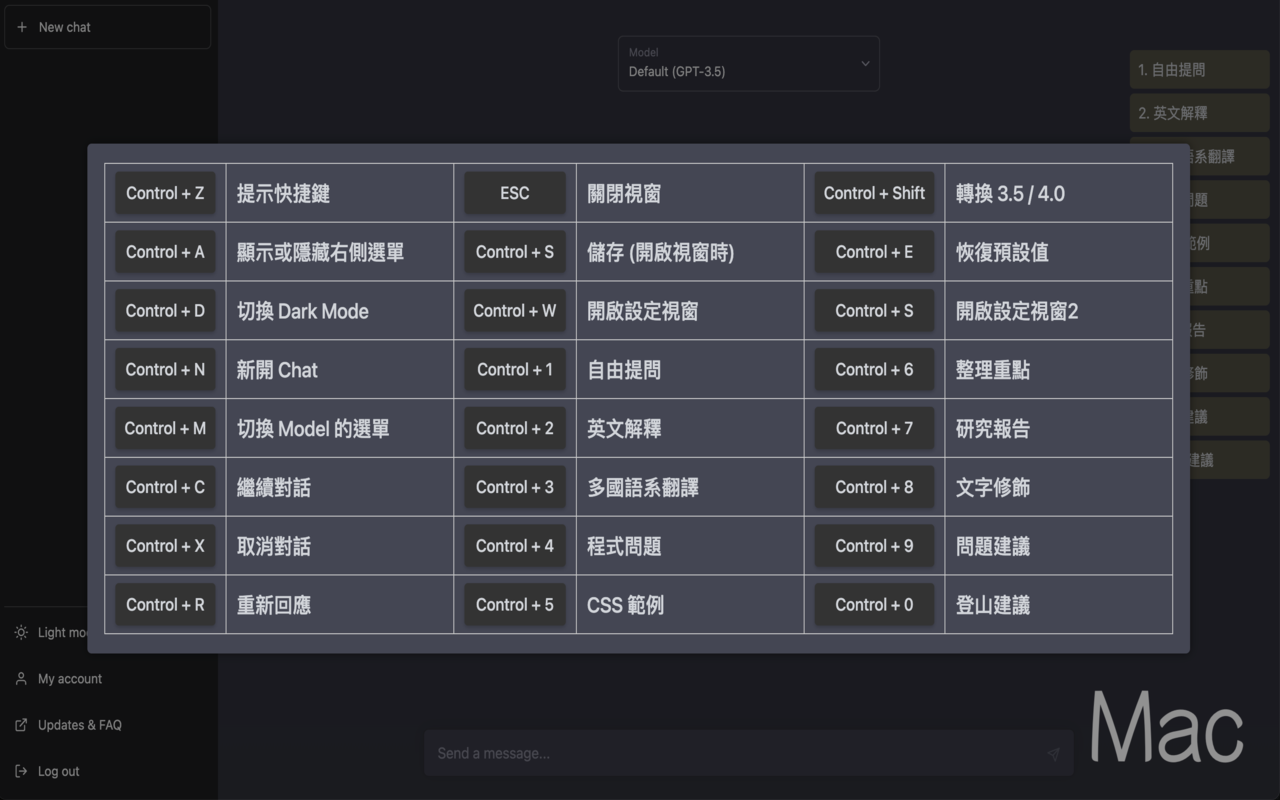
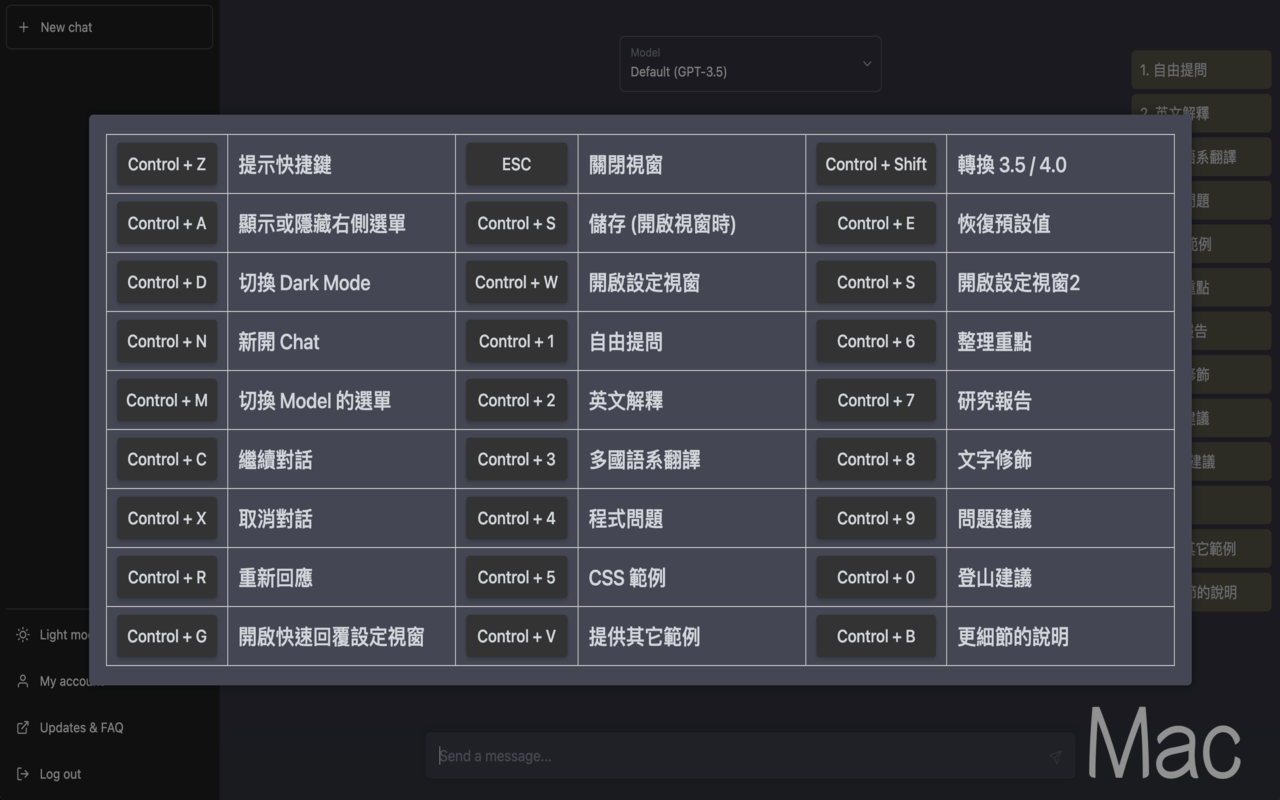
調整 readme && 調整 chrome store 圖片

diff --git a/README.md b/README.md
@@ -11,76 +11,89 @@
 ## 精彩功能一覽
 
 ### Mac 快捷鍵
-![](https://i.imgur.com/GNV3QSR.png)
+![](https://i.imgur.com/DH7cBQd.png)
+
 > 按住 **主鍵+Z** 可顯示快捷鍵表，放開則隱藏。
 
 > Mac 主鍵為 **Control**，Windows 主鍵為 **Alt**。
 
 ### Windows 快捷鍵
-![](https://i.imgur.com/gVQGoQa.png)
+![](https://i.imgur.com/Hertwwe.png)
 
 
-### 10 組客製化模板（可根據使用習慣調整）
-![](https://i.imgur.com/EyGMm2t.png)
+### 10組客製化模板（可根據使用習慣調整）
+![](https://i.imgur.com/eQUdep3.png)
+
 > 按下 **主鍵+W**，打開第一個設定視窗。
  
-![](https://i.imgur.com/UHs0lMe.png)
+![](https://i.imgur.com/wZRi575.png)
 > 按下 **主鍵+S**，打開第二個設定視窗。
 
+### 2組客製快速回覆按鈕
+![](https://i.imgur.com/L5QpPqS.png)
+> 按下 **主鍵+G**，打開快速回覆設定視窗。
+
 ### 開啟提問視窗
-![](https://i.imgur.com/lFqByL2.gif)
+![](https://i.imgur.com/Lp72Jwe.gif)
+
 > 可使用滑鼠點擊選單按鈕，或是使用 **主鍵+上排數字鍵1~0** 開啟對應的提問視窗。
 
 ### 切換 Dark Mode
-![](https://i.imgur.com/95oFqTW.gif)
+![](https://i.imgur.com/30IUgZ7.gif)
+
 > 按下 **主鍵+D**，即可進行模式切換。
 
 ### 隱藏右側選單
-![](https://i.imgur.com/H394ixd.gif)
+![](https://i.imgur.com/nuB7ND6.gif)
 > 按下 **主鍵+A**，即可進行選單的隱藏與顯示。
 
 ### 當需要停止或繼續對話時
-![](https://i.imgur.com/GuSlq7c.gif)
+![](https://i.imgur.com/N87GqAT.gif)
 
 > 按下 **主鍵+S**，即可停止產生，按下 **主鍵+C** 即可繼續。
 
 > 當遇到網路錯誤時，您可以按下 **主鍵+R** 進行重新回應。
 
+> 此外 **主鍵+V** 與 **主鍵+B** 是可自定義的快速回覆按鈕。
+
 ### 新開 Chat 搭配 切換 Model 選單
-![](https://i.imgur.com/HEc3eAP.gif)
+![](https://i.imgur.com/4JcLjk7.gif)
 
 > 此動作是 **主鍵+N** 搭配 **主鍵+M**，也可直接使用 **Control+Shift** 達到同樣的效果。
 
 > 需要有訂閱 ChatGPT plus 才能使用 GPT-4 和 切換 Model。
 
 ### 多國語系翻譯示範
-![](https://i.imgur.com/VfYzJwN.png)
+![](https://i.imgur.com/g8oDTqT.png)
 
-![](https://i.imgur.com/P6f0kwz.png)
+![](https://i.imgur.com/T9yKisx.png)
+
 
 ### 程式開發建議示範
-![](https://i.imgur.com/USw3bI3.png)
+![](https://i.imgur.com/pfO6xI9.png)
 
-![](https://i.imgur.com/uNF7mPn.png)
+![](https://i.imgur.com/8HR63qt.png)
 
 > 不局限於程式問題，只要描述清楚，都可以使用 ChatGPT 提供建議或是不同的思路。 
 
 ### 重點整理
-![](https://i.imgur.com/y7JPH3B.png)
+![](https://i.imgur.com/r31OTIM.png)
 
-![](https://i.imgur.com/Ozh4sfV.png)
+![](https://i.imgur.com/AsHJ8Ng.png)
 
 ### 文字修飾
-![](https://i.imgur.com/C7zoJEg.png)
+![](https://i.imgur.com/TFRQCmp.png)
 
-![](https://i.imgur.com/KEhrgbs.png)
+![](https://i.imgur.com/pUyRlcn.png)
+
 
 > 分享一個小訣竅，其實可以根據不同情境，選擇不同的感覺描述方式，例如具有專業感、具有教育感、具有親切感，甚至是具有可愛感等等，就可以讓 ChatGPT 修飾出你想要的版本！
 
 ### 細節化問題的提問示範
-![](https://i.imgur.com/9YS0A6d.png)
+![](https://i.imgur.com/qwjc43L.png)
 
-![](https://i.imgur.com/OxrRlSh.png)
+![](https://i.imgur.com/SmI2LZH.png)
+
 
 ## 贊助作者
 
